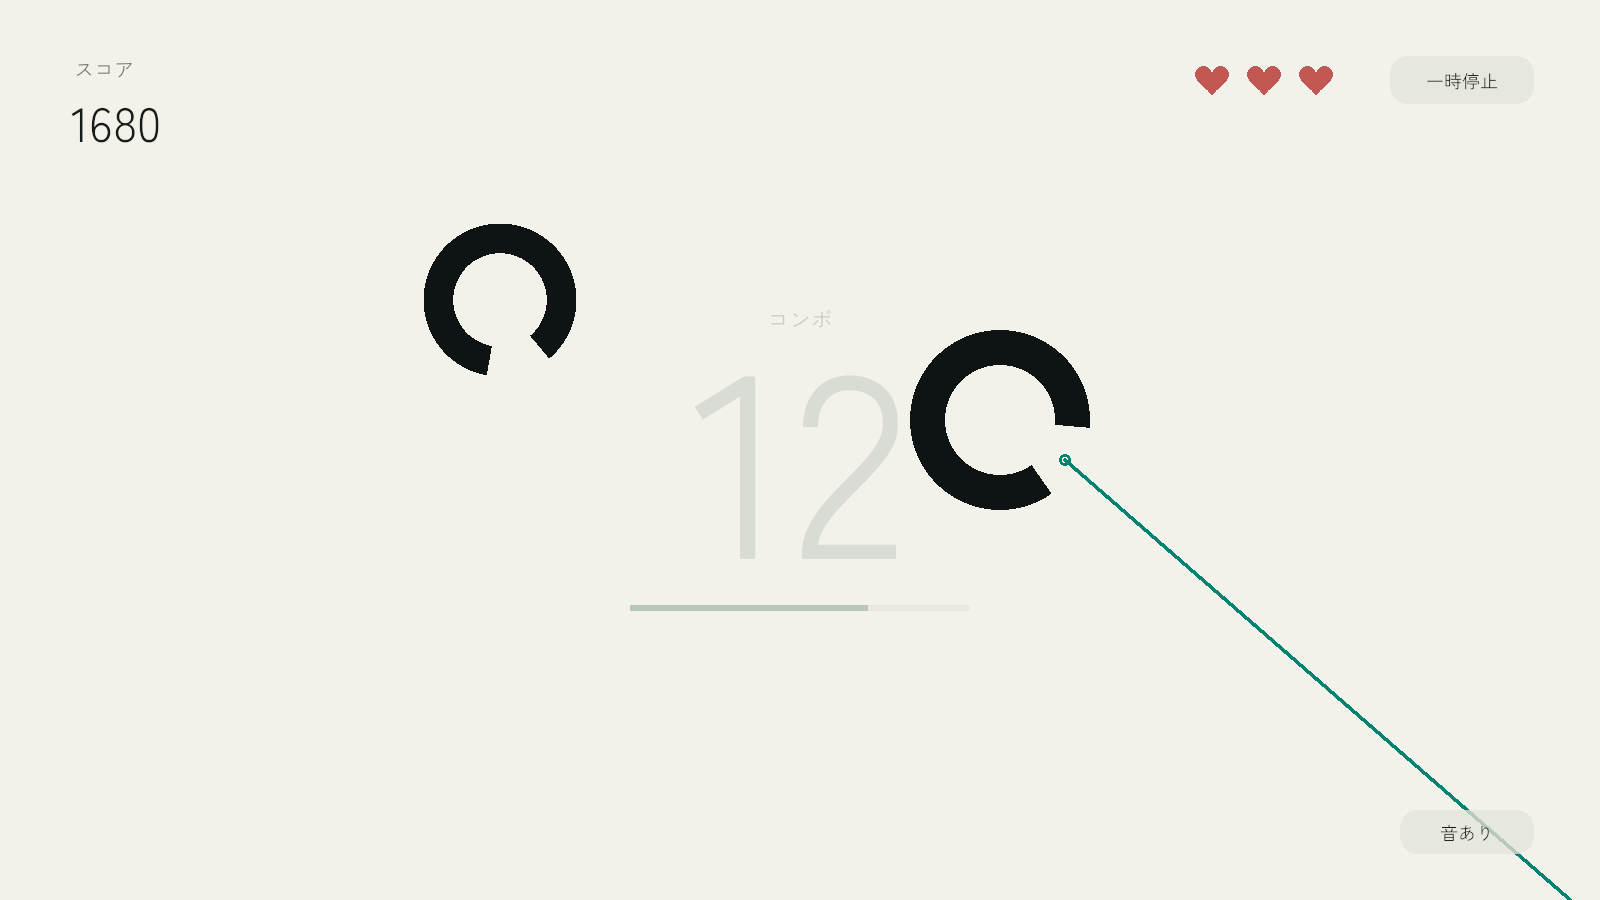
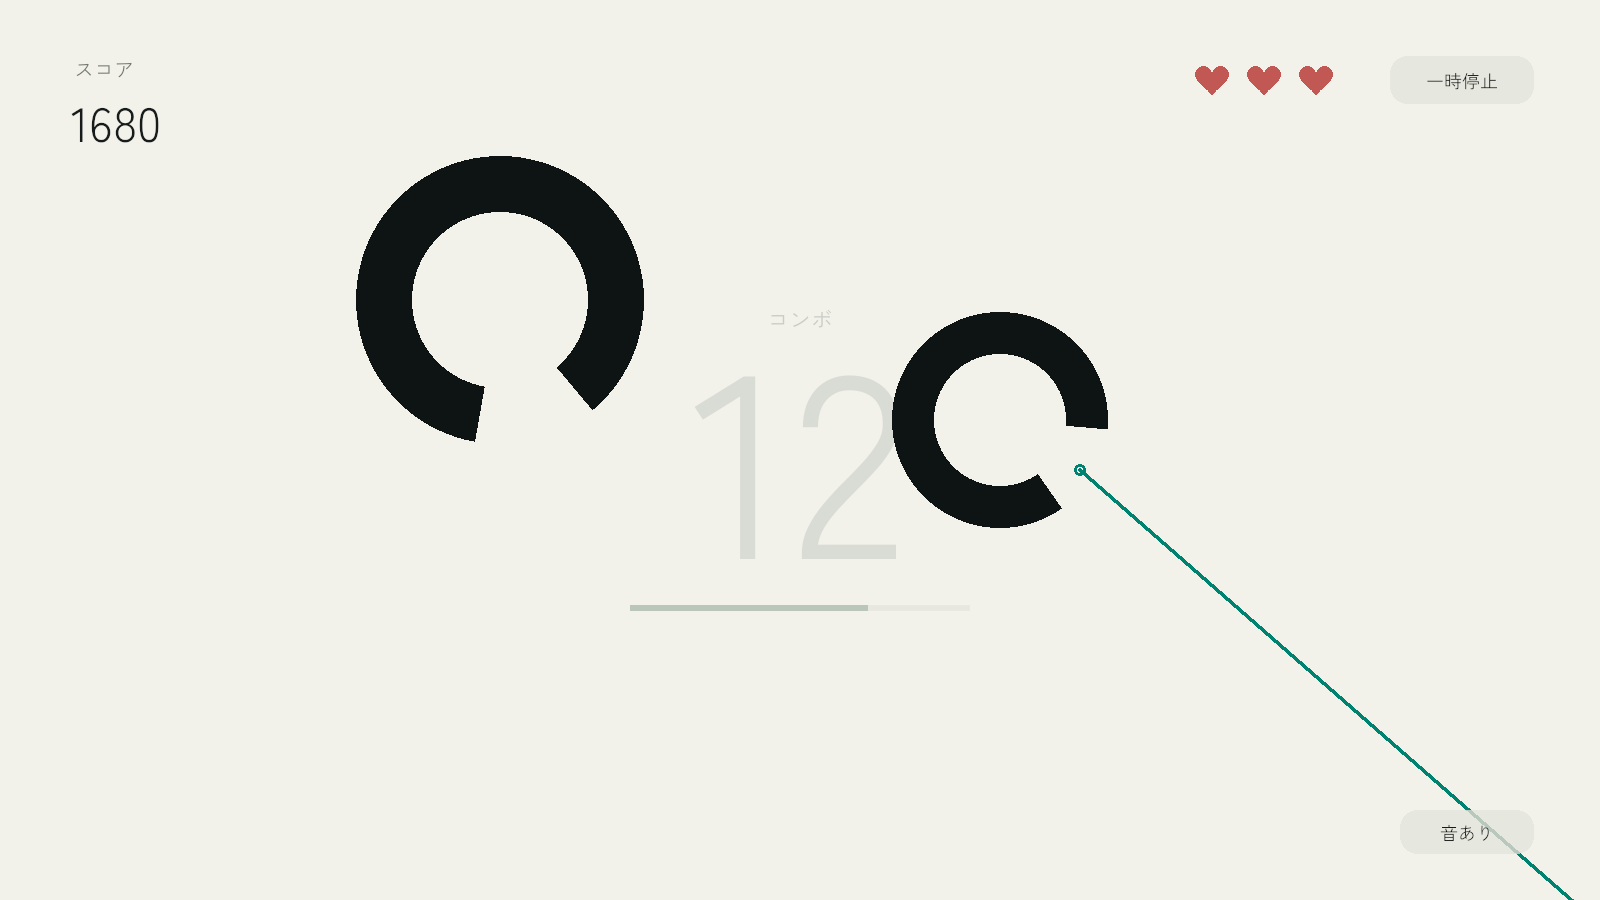
Increase ring size and guarantee three visible rotations

diff --git a/Assets/LandoltRush/Editor/GameVerification.cs b/Assets/LandoltRush/Editor/GameVerification.cs
@@ -63,23 +63,47 @@ namespace LandoltRush.Editor
             judge.Title();float elapsed=data.ElapsedPlayTime;tempo.Tick(20);Check(data.ElapsedPlayTime==elapsed,"Title freezes acceleration");
             judge.Start();Check(data.ElapsedPlayTime==0&&Mathf.Approximately(tempo.Interval,4),"Restart resets spawn acceleration");
             var bounds=new Rect(-8,-4.5f,16,9);var system=new RingSpawnSystem(spawn,ring);int top=0,left=0;
+            Check(Mathf.Approximately(RingSpawnSystem.VisibleTravelTime(bounds,new Vector2(-10,0),new Vector2(2,0),1),7),"Horizontal fully visible travel time");
+            Check(Mathf.Approximately(RingSpawnSystem.VisibleTravelTime(bounds,new Vector2(0,6),new Vector2(0,-2),1),3.5f),"Vertical fully visible travel time");
+            Check(Mathf.Approximately(RingSpawnSystem.VisibleTravelTime(new Rect(-5,-5,10,10),new Vector2(-6,-6),new Vector2(2,2),1),4),"Diagonal fully visible travel time");
+            Check(RingSpawnSystem.VisibleTravelTime(bounds,Vector2.zero,Vector2.zero,1)==0,"Stationary travel has no finite passage");
             for(int i=0;i<500;i++)
             {
                 var d=system.Create(bounds);if(d.Side==SpawnSide.Top)top++;else left++;
                 Check(bounds.Contains(d.Target),"Target inside screen");
                 Check(d.Side==SpawnSide.Top?d.Position.y-ring.OuterRadius*d.Scale>bounds.yMax:d.Position.x+ring.OuterRadius*d.Scale<bounds.xMin,"Fully offscreen spawn");
                 Check(Vector2.Dot(d.Target-d.Position,d.Velocity)>0,"Moves towards target");
-                Check(d.Scale>=.8f&&d.Scale<=1.3f&&Mathf.Abs(d.AngularVelocity)>=30&&Mathf.Abs(d.AngularVelocity)<=180,"Random parameter limits");
+                Check(d.Scale>=1.2f&&d.Scale<=1.6f&&Mathf.Abs(d.AngularVelocity)>=180,"Larger minimum size and faster minimum rotation");
+                VerifyVisibleRotations(d,bounds,ring.OuterRadius*d.Scale);
             }
             Check(top>150&&left>150,"Both spawn sides");
+            // Even a low Inspector maximum must not defeat the three-turn requirement.
+            spawn.MinRotateSpeed=30;spawn.MaxRotateSpeed=30;spawn.MinMoveSpeed=3;spawn.MaxMoveSpeed=3;
+            for(int i=0;i<20;i++)
+            {
+                var d=system.Create(bounds);Check(Mathf.Abs(d.AngularVelocity)>30,"Travel requirement overrides configured rotation maximum");
+                VerifyVisibleRotations(d,bounds,ring.OuterRadius*d.Scale);
+            }
             var ringObject=new GameObject("Entry verification");var comp=ringObject.AddComponent<LandoltRingComponent>();comp.Viewer=ringObject.AddComponent<RingViewer>();
             comp.Initialize(new RingSpawnData{Position=new Vector2(-10,0),Velocity=new Vector2(4,0),Scale=1},ring);
             comp.CheckExit(bounds);Check(!comp.Entered&&!comp.Resolved,"No premature miss at spawn");comp.Advance(1);comp.CheckExit(bounds);Check(comp.Entered&&!comp.Resolved,"Entry state");
             comp.Advance(5);comp.CheckExit(bounds);Check(comp.Resolved,"Miss after fully exiting");
             VerifyMultipleRings();
             UnityEngine.Object.DestroyImmediate(ringObject);UnityEngine.Object.DestroyImmediate(obj);UnityEngine.Object.DestroyImmediate(config);UnityEngine.Object.DestroyImmediate(spawn);UnityEngine.Object.DestroyImmediate(ring);
-            Directory.CreateDirectory("Builds");File.WriteAllText("Builds/verification.txt",$"PASS — {checks} assertions\nThree lives, contact/escape damage, duplicate prevention, final-life transition, restart, Japanese UI/glyphs, hearts, combo background, swept collisions and timed multi-ring spawns.\n");
+            Directory.CreateDirectory("Builds");File.WriteAllText("Builds/verification.txt",$"PASS — {checks} assertions\nMinimum scale 1.2, at least three fully visible rotations across 520 sampled trajectories, travel-time boundaries and rotation-limit override.\nThree lives, contact/escape damage, duplicate prevention, final-life transition, restart, Japanese UI/glyphs, hearts, combo background, swept collisions and timed multi-ring spawns.\n");
             Debug.Log($"LANDOLT_TESTS_PASSED: {checks}");
+        }
+        static void VerifyVisibleRotations(RingSpawnData data,Rect bounds,float radius)
+        {
+            // Independently sample the path instead of reusing the production clipping formula.
+            const float step=1f/240f;int visibleSteps=0;
+            for(int i=0;i<30*240;i++)
+            {
+                Vector2 p=data.Position+data.Velocity*(i*step);
+                if(p.x-radius>=bounds.xMin&&p.x+radius<=bounds.xMax&&p.y-radius>=bounds.yMin&&p.y+radius<=bounds.yMax)visibleSteps++;
+            }
+            Check(visibleSteps>0,"Generated ring fully enters viewport");
+            Check((visibleSteps+2)*step*Mathf.Abs(data.AngularVelocity)>=1080f,"At least three fully visible turns (two sample tolerance)");
         }
         static bool Shaft(Vector2 pivot,Vector2 from,Vector2 to,float turn=0)=>RingGeometry.SweepShaft(pivot,pivot,from,to,.018f,Vector2.zero,Vector2.zero,0,turn,1,.55f,.9f,50);
         static void VerifyMultipleRings()

diff --git a/Assets/LandoltRush/Scripts/Systems/RingSpawnSystem.cs b/Assets/LandoltRush/Scripts/Systems/RingSpawnSystem.cs
@@ -16,9 +16,40 @@ namespace LandoltRush
             Vector2 spawn = top ? new Vector2(Range(bounds.xMin + edge, bounds.xMax - edge), bounds.yMax + margin)
                 : new Vector2(bounds.xMin - margin, Range(bounds.yMin + edge, bounds.yMax - edge));
             Vector2 target = bounds.center + new Vector2(Range(-bounds.width, bounds.width), Range(-bounds.height, bounds.height)) * (.5f * param.TargetAreaRate);
+            Vector2 velocity = (target - spawn).normalized * Range(param.MinMoveSpeed, param.MaxMoveSpeed);
+            float duration = VisibleTravelTime(bounds, spawn, velocity, ring.OuterRadius * scale);
+            float minimumRotation = Mathf.Max(param.MinRotateSpeed, 1080f / Mathf.Max(.001f, duration));
             return new RingSpawnData { Side = top ? SpawnSide.Top : SpawnSide.Left, Position = spawn, Target = target,
-                Velocity = (target - spawn).normalized * Range(param.MinMoveSpeed, param.MaxMoveSpeed), Scale = scale,
-                Angle = Range(0, 360), AngularVelocity = Range(param.MinRotateSpeed, param.MaxRotateSpeed) * (random.Next(2) == 0 ? -1 : 1) };
+                Velocity = velocity, Scale = scale,
+                Angle = Range(0, 360), AngularVelocity = Range(minimumRotation, Mathf.Max(minimumRotation, param.MaxRotateSpeed)) * (random.Next(2) == 0 ? -1 : 1) };
+        }
+
+        // Use only the time when the whole ring is visible, excluding its entry and exit.
+        public static float VisibleTravelTime(Rect bounds, Vector2 position, Vector2 velocity, float radius)
+        {
+            var interior = Rect.MinMaxRect(bounds.xMin + radius, bounds.yMin + radius,
+                bounds.xMax - radius, bounds.yMax - radius);
+            float duration = TravelTime(interior, position, velocity);
+            // Custom sizes/paths may never fit fully inside. Use the centre's passage then.
+            return duration > 0 ? duration : TravelTime(bounds, position, velocity);
+        }
+
+        static float TravelTime(Rect bounds, Vector2 position, Vector2 velocity)
+        {
+            if (bounds.width <= 0 || bounds.height <= 0 || velocity.sqrMagnitude < .000001f) return 0;
+            float enter = 0, exit = float.PositiveInfinity;
+            if (!ClipAxis(position.x, velocity.x, bounds.xMin, bounds.xMax, ref enter, ref exit) ||
+                !ClipAxis(position.y, velocity.y, bounds.yMin, bounds.yMax, ref enter, ref exit)) return 0;
+            return Mathf.Max(0, exit - enter);
+        }
+
+        static bool ClipAxis(float position, float velocity, float min, float max, ref float enter, ref float exit)
+        {
+            if (Mathf.Abs(velocity) < .000001f) return position >= min && position <= max;
+            float a = (min - position) / velocity, b = (max - position) / velocity;
+            enter = Mathf.Max(enter, Mathf.Min(a, b));
+            exit = Mathf.Min(exit, Mathf.Max(a, b));
+            return exit > enter;
         }
     }
 }

diff --git a/Assets/LandoltRush/Editor/GamePreviewRenderer.cs b/Assets/LandoltRush/Editor/GamePreviewRenderer.cs
@@ -28,9 +28,9 @@ namespace LandoltRush.Editor
             Capture(camera,canvas,"01-title");
             scope.Title.gameObject.SetActive(false);data.Phase=GamePhase.Playing;data.Lives=3;data.Score=1680;data.ComboCount=12;data.MaxCombo=12;data.ComboRemainingTime=4.2f;
             scope.UI.Refresh(data,scope.Config);
-            scope.Spawner.Spawn(new RingSpawnData{Position=new Vector2(2,.3f),Scale=1,Angle=-30},scope.RingParam);
-            scope.Spawner.Spawn(new RingSpawnData{Position=new Vector2(-3,1.5f),Scale=.85f,Angle=-75},scope.RingParam);
-            scope.Rod.TestPosition=new Vector2(2.65f,-.1f);scope.Rod.SetActive(true,scope.RodParam);
+            scope.Spawner.Spawn(new RingSpawnData{Position=new Vector2(2,.3f),Scale=scope.SpawnParam.MinScale,Angle=-30},scope.RingParam);
+            scope.Spawner.Spawn(new RingSpawnData{Position=new Vector2(-3,1.5f),Scale=scope.SpawnParam.MaxScale,Angle=-75},scope.RingParam);
+            scope.Rod.TestPosition=new Vector2(2.8f,-.2f);scope.Rod.SetActive(true,scope.RodParam);
             Capture(camera,canvas,"02-playing");
             data.Lives=2;data.ComboCount=0;data.ComboRemainingTime=0;scope.UI.Refresh(data,scope.Config);scope.Feedback.Damage();scope.Feedback.Advance(.04f);
             Capture(camera,canvas,"03-miss");

diff --git a/Assets/LandoltRush/Scripts/Params/SpawnParam.cs b/Assets/LandoltRush/Scripts/Params/SpawnParam.cs
@@ -8,7 +8,8 @@ namespace LandoltRush
         public float SpawnMargin = .15f, EdgeExclusionMargin = 1f;
         [Range(.1f,.8f)] public float TargetAreaRate = .45f;
         public float MinMoveSpeed = 1.5f, MaxMoveSpeed = 3f;
-        public float MinScale = .8f, MaxScale = 1.3f;
-        public float MinRotateSpeed = 30f, MaxRotateSpeed = 180f;
+        public float MinScale = 1.2f, MaxScale = 1.6f;
+        [Tooltip("Degrees per second. Raised automatically when needed for three visible turns.")]
+        public float MinRotateSpeed = 180f, MaxRotateSpeed = 360f;
     }
 }

diff --git a/README.md b/README.md
@@ -27,7 +27,9 @@ Unityでのコンパイルとゲームルールの検証記録は `Documentation
 
 コンボ継続時間は **6秒**。成功時に回復し、環が1つも存在しない待機時間には減りません。別の環が残っている場合はそのままカウントダウンします。得点は `100 + (コンボ数 - 1) × 20` です。
 
-前の環が残っていても次の環が出現します。出現間隔は **4秒 → 90秒後に0.9秒** へ徐々に短くなります。同時出現は最大12個で、上限に達した場合は空きができるまで生成を待ちます。環の移動・回転速度の範囲は従来どおりです。一時停止中は加速せず、リトライで初期ペースに戻ります。各数値は `GameConfig` で変更できます。
+前の環が残っていても次の環が出現します。出現間隔は **4秒 → 90秒後に0.9秒** へ徐々に短くなります。同時出現は最大12個で、上限に達した場合は空きができるまで生成を待ちます。一時停止中は加速せず、リトライで初期ペースに戻ります。各数値は `GameConfig` で変更できます。
+
+環のサイズは **1.2〜1.6倍**。最小サイズは、調整前の参考画像の右側の環より直径20％大きく、1600×900表示では約216pxです。回転速度は最低180度/秒を基準に、経路・移動速度・半径から計算した「環全体が画面内に収まる時間」で **最低3回転** するよう引き上げます（成功・ミスで途中消滅する場合を除く）。必要な場合は設定上限360度/秒も超えます。移動速度は1.5〜3のままです。設定は `SpawnParam` にあります。
 
 ## プロジェクト
 

diff --git a/SPEC.md b/SPEC.md
@@ -1,6 +1,11 @@
 # LANDOLT RUSH
 
-## 現行ルール（日本語UI・ライフ制への改訂）
+## 現行ルール（サイズ・回転速度、日本語UI・ライフ制への改訂）
+
+- 環のスケールは1.2〜1.6。最小直径は参考画像の右側の環より20％大きくする（1600×900で約216px）。
+- 回転速度の基準範囲は180〜360度/秒。移動経路と速度、外側半径から環全体が画面内に収まる時間を求め、その間に最低3回転する速度を下限にする。必要なら設定上限より速くする。
+- 成功・ミスによる途中消滅を除く。画面に収まらない特殊な設定では中心が画面内にある時間を使う。回転方向は引き続きランダム。
+- 移動速度は1.5〜3を維持する。
 
 - タイトル「Landolt Rush」以外のUIは日本語にする。タイトル画面はタイトルと開始・終了操作に絞る。
 - 最大ライフは3。シンプルなハートで残り数を表す。
